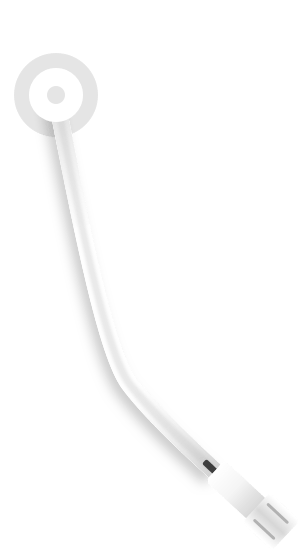
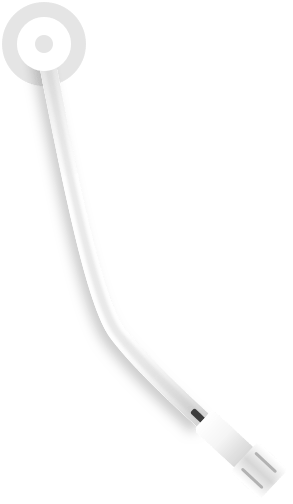
播放歌曲、上一曲、下一曲、唱针

diff --git a/netease_cloud_music/lib/pages/play_songs/play_songs_page.dart b/netease_cloud_music/lib/pages/play_songs/play_songs_page.dart
@@ -21,16 +21,21 @@ class PlaySongsPage extends StatefulWidget {
 }
 
 class _PlaySongsPageState extends State<PlaySongsPage>
-    with SingleTickerProviderStateMixin {
-  AnimationController _controller;
+    with TickerProviderStateMixin {
+  AnimationController _controller;      // 封面旋转控制器
+  AnimationController _stylusController; //唱针控制器
+  Animation<double> _stylusAnimation;
 
   @override
   void initState() {
     super.initState();
     _controller =
         AnimationController(vsync: this, duration: Duration(seconds: 20));
-    _controller.forward();
+    _stylusController =
+        AnimationController(vsync: this, duration: Duration(milliseconds: 300));
+    _stylusAnimation = Tween<double>(begin: 0, end: -0.08).animate(_stylusController);
     _controller.addStatusListener((status) {
+      // 转完一圈之后继续
       if (status == AnimationStatus.completed) {
         _controller.reset();
         _controller.forward();
@@ -42,6 +47,15 @@ class _PlaySongsPageState extends State<PlaySongsPage>
   Widget build(BuildContext context) {
     return Consumer<PlaySongsModel>(builder: (context, model, child) {
       var curSong = model.curSong;
+      if (model.curState == AudioPlayerState.PLAYING) {
+        // 如果当前状态是在播放当中，则唱片一直旋转，
+        // 并且唱针是移除状态
+        _controller.forward();
+        _stylusController.reverse();
+      } else {
+        _controller.stop();
+        _stylusController.forward();
+      }
       return Scaffold(
         body: Stack(
           children: <Widget>[
@@ -98,13 +112,16 @@ class _PlaySongsPageState extends State<PlaySongsPage>
               alignment: Alignment(0.0, -0.3),
             ),
             Align(
-              child: Image.asset(
-                'images/bgm.png',
-                width: ScreenUtil().setWidth(300),
-                height: ScreenUtil().setWidth(400),
-                fit: BoxFit.fitHeight,
+              child: RotationTransition(
+                turns: _stylusAnimation,
+                alignment: Alignment(-1 + (ScreenUtil().setWidth(45 * 2) / (ScreenUtil().setWidth(293))), -1 + (ScreenUtil().setWidth(45 * 2) / (ScreenUtil().setWidth(504)))),
+                child: Image.asset(
+                  'images/bgm.png',
+                  width: ScreenUtil().setWidth(200),
+                  height: ScreenUtil().setWidth(344),
+                ),
               ),
-              alignment: Alignment(0.3, -0.8),
+              alignment: Alignment(0.24, -0.75),
             ),
             Align(
               child: Padding(
@@ -124,4 +141,10 @@ class _PlaySongsPageState extends State<PlaySongsPage>
     });
   }
 
+  @override
+  void dispose() {
+    _controller.dispose();
+    _stylusController.dispose();
+    super.dispose();
+  }
 }

diff --git a/netease_cloud_music/lib/provider/play_songs_model.dart b/netease_cloud_music/lib/provider/play_songs_model.dart
@@ -12,7 +12,7 @@ import 'package:netease_cloud_music/utils/net_utils.dart';
 import 'package:fluttertoast/fluttertoast.dart';
 import 'package:netease_cloud_music/utils/utils.dart';
 
-class PlaySongsModel{
+class PlaySongsModel with ChangeNotifier{
   AudioPlayer _audioPlayer = AudioPlayer();
   AudioPlayer get audioPlayer => _audioPlayer;
   StreamController<String> _curPositionController = StreamController<String>.broadcast();
@@ -30,18 +30,23 @@ class PlaySongsModel{
 
   void init() {
     _audioPlayer.setReleaseMode(ReleaseMode.STOP);
+    // 播放状态监听
     _audioPlayer.onPlayerStateChanged.listen((state) {
       _curState = state;
       /// 先做顺序播放
       if(state == AudioPlayerState.COMPLETED){
         nextPlay();
       }
+      // 其实也只有在播放状态更新时才需要通知。
+      notifyListeners();
     });
     _audioPlayer.onDurationChanged.listen((d) {
       curSongDuration = d;
     });
+    // 当前播放进度监听
     _audioPlayer.onAudioPositionChanged.listen((Duration p) {
-      _curPositionController.sink.add('${p.inMilliseconds}-${curSongDuration.inMilliseconds}');
+      print('${p.inMilliseconds}-${curSongDuration.inMilliseconds}');
+      _curPositionController.sink.add('${p.inMilliseconds > curSongDuration.inMilliseconds ? curSongDuration.inMilliseconds : p.inMilliseconds}-${curSongDuration.inMilliseconds}');
     });
   }
 
@@ -75,6 +80,12 @@ class PlaySongsModel{
     }
   }
 
+  /// 跳转到固定时间
+  void seekPlay(int milliseconds){
+    _audioPlayer.seek(Duration(milliseconds: milliseconds));
+    resumePlay();
+  }
+
   /// 恢复播放
   void resumePlay() {
     _audioPlayer.resume();
@@ -91,7 +102,6 @@ class PlaySongsModel{
   }
 
   void prePlay(){
-
     if(curIndex <= 0){
 
     }else{
@@ -100,8 +110,12 @@ class PlaySongsModel{
     }
   }
 
-  dispose(){
+  @override
+  void dispose() {
+    super.dispose();
     _curPositionController.close();
     _audioPlayer.dispose();
   }
+
+
 }

diff --git a/netease_cloud_music/lib/widgets/widget_song_progress.dart b/netease_cloud_music/lib/widgets/widget_song_progress.dart
@@ -17,9 +17,6 @@ class SongProgressWidget extends StatelessWidget {
                 snapshot.data.substring(snapshot.data.indexOf('-') + 1);
             var curTime =
                 snapshot.data.substring(0, snapshot.data.indexOf('-'));
-            var value = (int.parse(curTime) / double.parse(totalTime)) * 400;
-            print(value);
-
             return Container(
               height: ScreenUtil().setWidth(120),
               child: Row(
@@ -37,16 +34,18 @@ class SongProgressWidget extends StatelessWidget {
                         ),
                       ),
                       child: Slider(
-                        value: value,
+                        value: double.parse(curTime),
                         onChanged: (data) {},
                         onChangeStart: (data){
-                          print('start');
+                          model.pausePlay();
                         },
-                        onChangeEnd: (data){},
+                        onChangeEnd: (data){
+                          model.seekPlay(data.toInt());
+                        },
                         activeColor: Colors.white,
                         inactiveColor: Colors.white30,
                         min: 0,
-                        max: 400,
+                        max: double.parse(totalTime),
                       ),
                     ),
                   ),

diff --git a/netease_cloud_music/lib/widgets/widget_play_bottom_menu.dart b/netease_cloud_music/lib/widgets/widget_play_bottom_menu.dart
@@ -32,9 +32,7 @@ class _PlayBottomMenuWidgetState extends State<PlayBottomMenuWidget> {
                     : 'images/icon_song_play.png',
                 150,
                 onTap: () {
-                  setState(() {
-                    model.pausePlay();
-                  });
+                  model.pausePlay();
                 },
               ),
               BottomMenu(

diff --git a/netease_cloud_music/lib/main.dart b/netease_cloud_music/lib/main.dart
@@ -26,9 +26,8 @@ void main() {
       ChangeNotifierProvider<UserModel>.value(
         value: UserModel(),
       ),
-      Provider<PlaySongsModel>(
+      ChangeNotifierProvider<PlaySongsModel>(
         builder: (_) => PlaySongsModel()..init(),
-        dispose: (_, PlaySongsModel model) => model.dispose(),
       ),
     ],
     child: MyApp(),

diff --git a/netease_cloud_music/lib/utils/net_utils.dart b/netease_cloud_music/lib/utils/net_utils.dart
@@ -25,7 +25,7 @@ import '../application.dart';
 
 class NetUtils {
   static Dio _dio;
-  static final String baseUrl = 'http://192.168.31.196';
+  static final String baseUrl = 'http://118.24.63.15';
 
   static void init() async {
     Directory tempDir = await getTemporaryDirectory();
